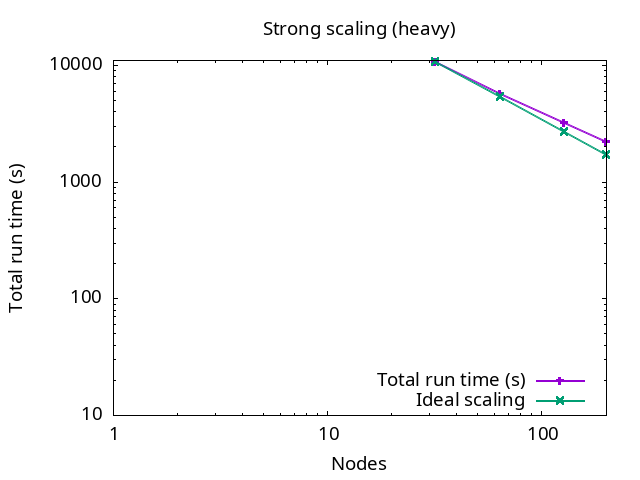
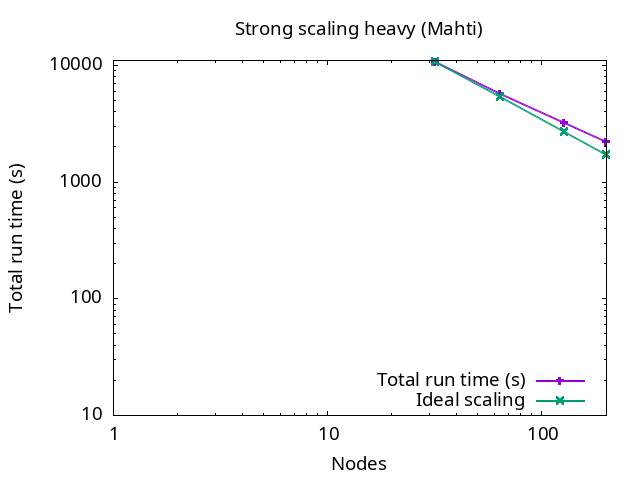
Update to Mahti plots and readme

Changed region(s): [[0.375, 0.0312, 0.75, 0.0938]]

diff --git a/scaling/202506_CSC_Mahti/README.md b/scaling/202506_CSC_Mahti/README.md
@@ -8,6 +8,8 @@ Data for the logfile's "Total run time" as well as Phiprof's "Propagate", "Spati
 
 Plot the results with `gnuplot -p <script>.gnuplot` for png plots, comment the relevant lines to obtain interactive plots instead.
 
+The same tests were run on EuroHPC's LUMI (see folder 202507_EuroHPC_LUMI-C).
+
 # Weak scaling
 
 Test run on 1 node as in the given cfg file, and extended on *n* nodes by expanding the domain by a factor *n* along the *y* and *z* dimensions respectively, and both along *y* and *z* for the cases where the node count is *m^2*. All runs using 16 tasks per node, 16 threads per task (multithreading).
@@ -17,9 +19,9 @@ Test run on 1 node as in the given cfg file, and extended on *n* nodes by expand
 
 # Strong scaling
 
-Two cases run, "light" on 2 to 200 nodes, "medium" with 4x larger box (extended in *y* and *z* and lower phase-space density threshold)
+Three cases run, "light", "medium", and "heavy" with progressively larger problems (extended in *y* and *z* and lower phase-space density threshold)
 
-Tests run with the given cfg. All runs using 16 tasks per node, 16 threads per task (multihtreading). Change variable `case` in gnuplot scripts between "light" and "medium" to plot the different cases.
+Tests run with the given cfg. All runs using 16 tasks per node, 16 threads per task (multihtreading). Change variable `case` in gnuplot scripts between "light", "medium", and "heavy" to plot the different cases.
 
 ![](strong/strong_scaling_light.png)
 ![](strong/strong_scaling_medium.png)
